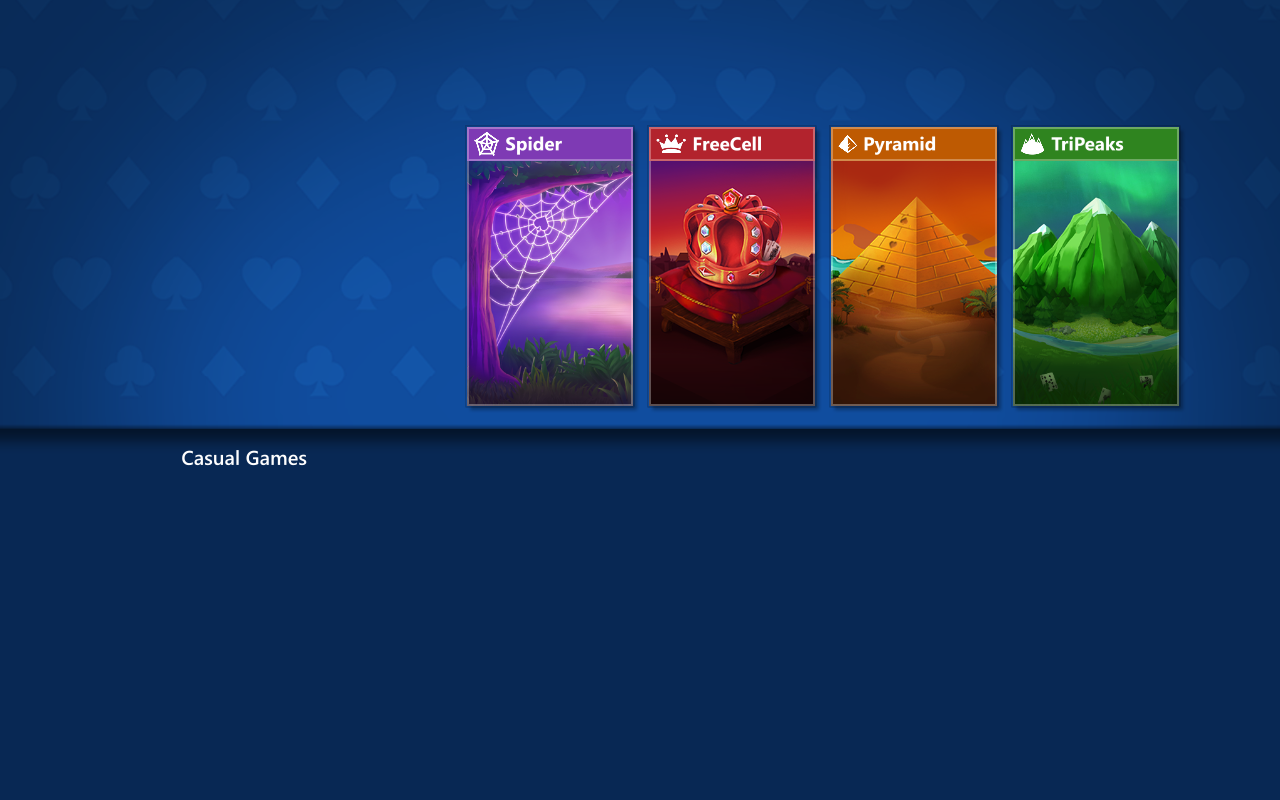
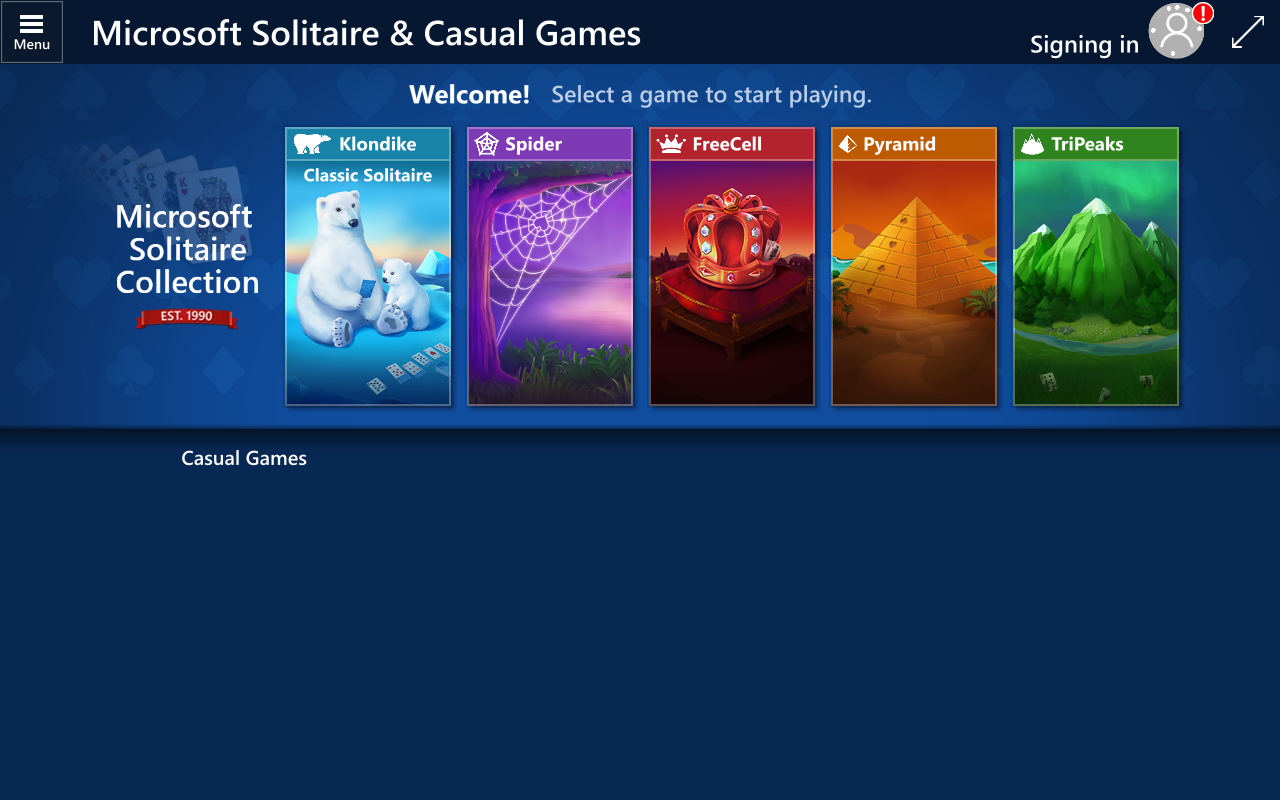
Solitaire is playable: kernelbase SystemTimeToTzSpecificLocalTimeEx, Klondike screenshots

Changed region(s): [[0.0, 0.0, 1.0, 0.5312]]

diff --git a/wine/dlls/kernelbase/locale.c b/wine/dlls/kernelbase/locale.c
@@ -8467,3 +8467,28 @@ int WINAPI GetTimeFormatEx( const WCHAR *name, DWORD flags, const SYSTEMTIME *sy
     TRACE( "(%s,%lx,%p,%s,%p,%d)\n", debugstr_w(name), flags, systime, debugstr_w(format), buffer, len );
     return get_time_format( locale, flags, systime, format, buffer, len );
 }
+
+
+/***********************************************************************
+ *	SystemTimeToTzSpecificLocalTimeEx   (kernelbase.@)
+ *
+ * DYNAMIC_TIME_ZONE_INFORMATION starts with a TIME_ZONE_INFORMATION; per-year
+ * dynamic DST rules are not applied, as in the non-Ex versions.
+ */
+BOOL WINAPI DECLSPEC_HOTPATCH SystemTimeToTzSpecificLocalTimeEx( const DYNAMIC_TIME_ZONE_INFORMATION *info,
+                                                                 const SYSTEMTIME *system,
+                                                                 SYSTEMTIME *local )
+{
+    return SystemTimeToTzSpecificLocalTime( (const TIME_ZONE_INFORMATION *)info, system, local );
+}
+
+
+/***********************************************************************
+ *	TzSpecificLocalTimeToSystemTimeEx   (kernelbase.@)
+ */
+BOOL WINAPI DECLSPEC_HOTPATCH TzSpecificLocalTimeToSystemTimeEx( const DYNAMIC_TIME_ZONE_INFORMATION *info,
+                                                                 const SYSTEMTIME *local,
+                                                                 SYSTEMTIME *system )
+{
+    return TzSpecificLocalTimeToSystemTime( (const TIME_ZONE_INFORMATION *)info, local, system );
+}

diff --git a/AGENTS.md b/AGENTS.md
@@ -767,7 +767,7 @@ the fully-qualified name. `--grep` first, always.
 | Feedback Hub | Fully working and interactive (822 colours, 0 fail-fasts) |
 | Media Player | **Plays audio from its own UI** - Open file(s) -> pick -> Play decodes WAV and MP3 through MF to `waveOut`. Needs `WINE_UWP_DRIVE_VIEW=run WINE_UWP_DRIVE_FIRST_VIEW=1 WINE_UWP_MANUAL_CONFIGURE=1`. Starts clean 15/15 |
 | Camera | Renders, but paints its own crash page: a `NotImplementedException` in a static constructor. Next target is `ITitleBarClientAdapter` `{ba5e7927-...}`, which our `wineuwp` navigation client refuses and `CoreApplicationViewTitleBar::_TryGetTitleBarClientAdapter` wants |
-| Solitaire | **Reaches its real main menu** (`docs/screenshots/solitaire-main-menu.png`) - bootflow completes, the splash is exited, and pointer input reaches the game (the Sign In Error dialog's Cancel works). The fix was registering StateRepository `PackageUser`: its absence threw `0x80040154` in the post-bootflow transition. Still needs the `0x7dee64` frame-loop patch. Next: dismiss the popup over the menu and start Klondike. See Findings-M4 |
+| Solitaire | **Playable**: main menu -> Klondike -> dealt game, and clicks move cards and score (`docs/screenshots/solitaire-klondike-playing.png`). To get there: Cancel the (invisible) Sign In Error popup at about (820,552), click Klondike, then "I know the rules". Still needs the `0x7dee64` frame-loop patch, which makes about half of captures partial frames, so take a burst. Some runs stall at about 5 s. See Findings-M4 |
 | Windows Security | Blank; needs the Defender SecurityHealth service |
 
 The three Media Player switches are opt-in only because the other apps have not been tested against

diff --git a/docs/Findings-M4.md b/docs/Findings-M4.md
@@ -8003,3 +8003,22 @@ Three fixes, in order, took Solitaire from the splash to its real main menu
 After the fix the log reads `EnterScreen [mainmenu_ftue]`, `TransitionFromBootflow`,
 `ExitScreen [splashpage_pc]`, then the popup gains focus. The menu still needs the `0x7dee64`
 frame-loop patch. Calculator regression is AE = 0.
+
+## Solitaire is playable (2026-09-22)
+
+From the main menu: Cancel on the Sign In Error popup, then Klondike, then "I know the rules" on
+the tutorial deals a game. Clicks play it: the Ace goes to the foundation, the score goes to 10,
+the stock draws, and the timer runs (`docs/screenshots/solitaire-klondike-playing.png`).
+
+The last blocker was `kernelbase.SystemTimeToTzSpecificLocalTimeEx`, a `@ stub`. `mainmenu_modern`
+calls it as it gains focus and dies with `0x80000100`, and it had only been missed on runs where the
+screen had not gained focus yet. Both `...Ex` time-zone functions now forward to their non-Ex
+versions. `DYNAMIC_TIME_ZONE_INFORMATION` begins with a `TIME_ZONE_INFORMATION`, and dynamic DST
+years are not applied.
+
+Still open:
+- The `0x7dee64` frame-loop patch is needed: without it the app stays on the splash.
+- About half of the window captures are partial or blank frames, because the forced loop presents
+  undrawn frames.
+- The Sign In Error popup is not visible, but it holds focus until it is dismissed.
+- Some runs still stall at about 5 s after the popup gains focus (the known run variance).
